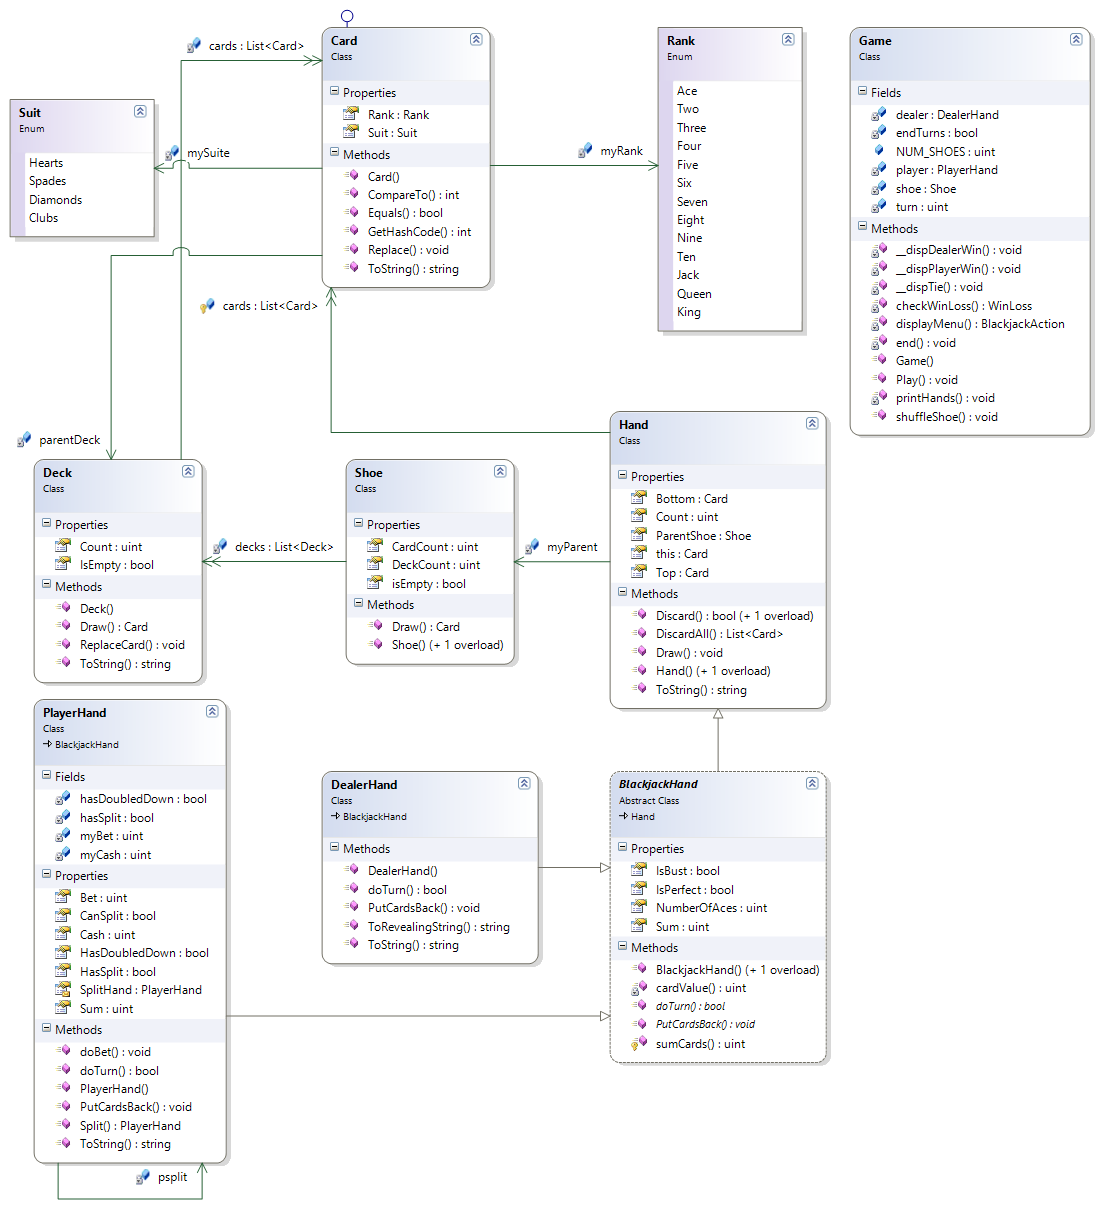
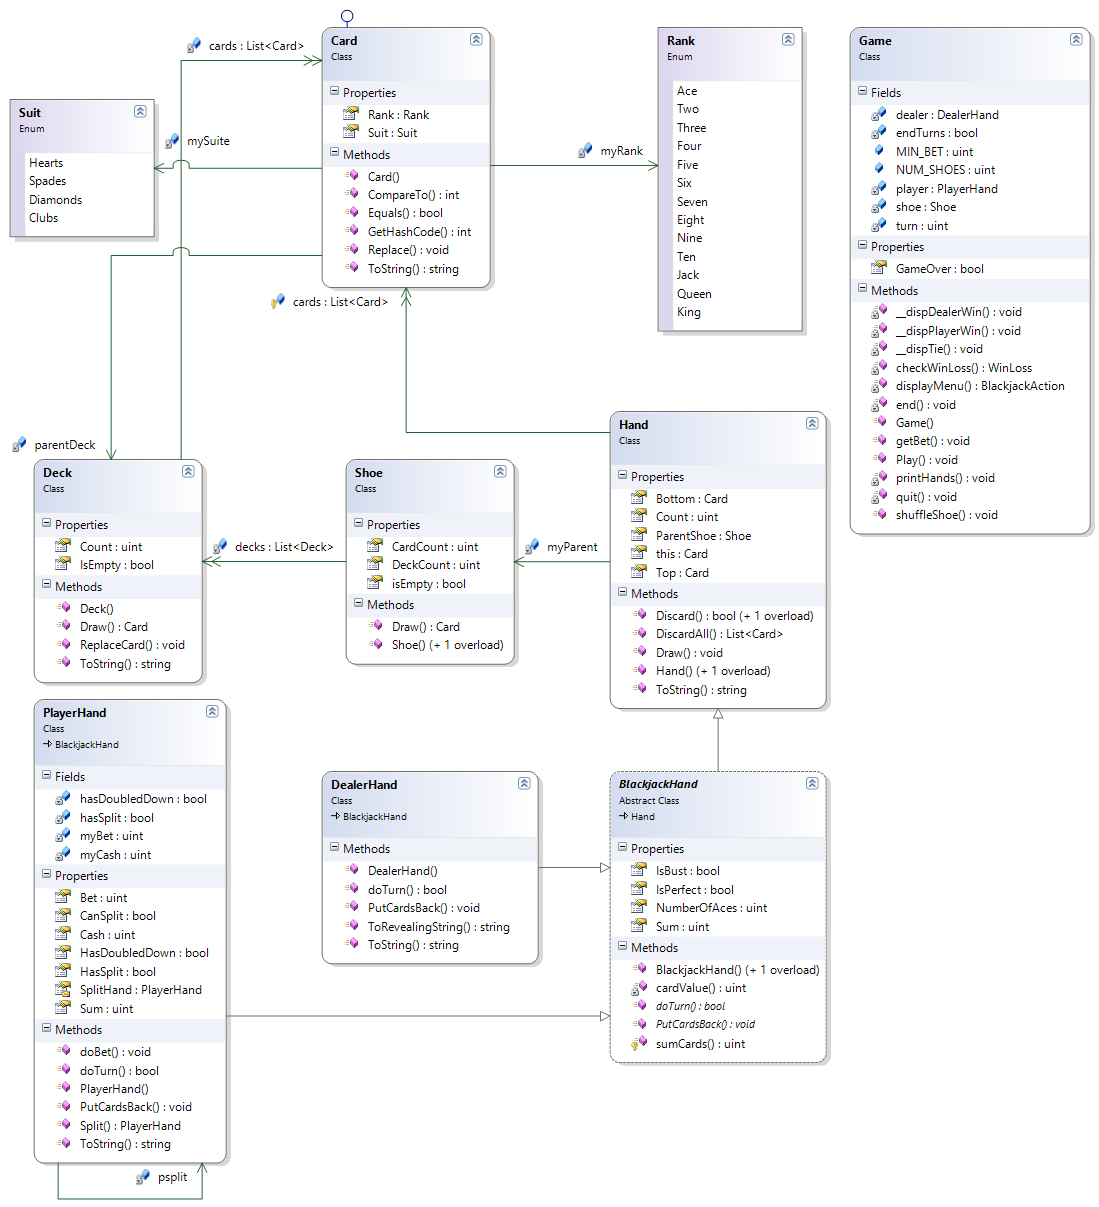
Really, sleep time.

diff --git a/proj/proj/Game.cs b/proj/proj/Game.cs
@@ -9,10 +9,17 @@ namespace test {
     /// </summary>
     class Game {
         public static uint NUM_SHOES = 1;
+        public static uint MIN_BET = 20;
 
         private Shoe shoe;
         PlayerHand player;
         DealerHand dealer;
+
+        public bool GameOver {
+            get {
+                return player.Cash < MIN_BET;
+            }
+        }
 
         uint turn;
 
@@ -20,6 +27,10 @@ namespace test {
 
         public Game() {
             shoe = new Shoe(NUM_SHOES);
+            player = new PlayerHand(shoe);
+            dealer = new DealerHand(shoe);
+            player.PutCardsBack();
+            dealer.PutCardsBack();
         }
 
         public void shuffleShoe() {
@@ -38,6 +49,7 @@ namespace test {
         }
 
         private void printHands() {
+            Console.WriteLine("\n Cash: {0,4:N0}  Bet: {1,3:N0}\n", player.Cash, player.Bet);
             if (endTurns) {
                 Console.WriteLine("  Dealer's Hand: {0}", dealer.ToRevealingString());
             } else {
@@ -47,12 +59,13 @@ namespace test {
         }
 
         public void Play() {
-            player = new PlayerHand(shoe);
-            dealer = new DealerHand(shoe);
-
             turn = 1;
             getBet();
-            printHands();
+
+            player.Draw(2);
+            dealer.Draw(2);
+
+            //printHands();
 
             // TODO: incorrect [from old source -- dunno what this means or why it's incorrect]
             BlackjackAction a;
@@ -62,7 +75,6 @@ namespace test {
                     case BlackjackAction.Stand:
                         while (dealer.doTurn()) ;
                         endTurns = true;
-                        printHands();
                         break;
                     case BlackjackAction.Split:
                         if (!player.CanSplit) {
@@ -77,7 +89,9 @@ namespace test {
                         player.doTurn(BlackjackAction.DoubleDown);
                         while (dealer.doTurn()) ;
                         endTurns = true;
-                        printHands();
+                        break;
+                    case BlackjackAction.EndGame:
+                        quit();
                         break;
                     default:
                         player.doTurn(a);
@@ -90,19 +104,26 @@ namespace test {
 
         private WinLoss checkWinLoss() {
             // TODO: verify accuracy?
-            if ((player.IsBust && dealer.IsBust) || (player.IsPerfect && dealer.IsPerfect)) {
+            WinLoss ret = WinLoss.NoWin;
+            if (player.IsBust && dealer.IsBust) {// TODO: this case || (player.IsPerfect && dealer.IsPerfect)) {
                 endTurns = true;
-                return WinLoss.Tie;
+                if (player.Sum < dealer.Sum) {
+                    ret = WinLoss.Player;
+                } else if (player.Sum > dealer.Sum)	{
+                    ret = WinLoss.Dealer;
+                } else {
+                    ret = WinLoss.Tie;
+                }
             }
             if (player.IsBust || dealer.IsPerfect) {
                 endTurns = true;
-                return WinLoss.Dealer;
+                ret = WinLoss.Dealer;
             }
             if (dealer.IsBust || player.IsPerfect) {
                 endTurns = true;
-                return WinLoss.Player;
+                ret = WinLoss.Player;
             }
-            return WinLoss.NoWin;
+            return ret;
         }
 
         private void __dispDealerWin() {
@@ -129,8 +150,10 @@ namespace test {
                     case WinLoss.NoWin: // TODO: There has to be a better way to do this
                         if (player.Sum > dealer.Sum) {
                             __dispPlayerWin();
+                            w = WinLoss.Player; // TODO: Fix the checkWinLoss method to account for this.
                         } else {
                             __dispDealerWin();
+                            w = WinLoss.Dealer;
                         }
                         break;
                     case WinLoss.Dealer:
@@ -157,7 +180,6 @@ namespace test {
 
         private BlackjackAction displayMenu() {
             Console.Clear();
-            Console.WriteLine();
             printHands();
             Console.WriteLine("\n\n     What would you like to do?\n");
             Console.WriteLine(" [1] Hit");
@@ -167,7 +189,7 @@ namespace test {
             Console.WriteLine(" [0] Quit Game");
             //TODO: Allow a doubling factor of 1.0 to 2.0 [what did I mean by this? - from old code]
 
-            ConsoleKeyInfo k = Console.ReadKey(true); //nextInt();
+            ConsoleKeyInfo k = Console.ReadKey(true);
             if (!Char.IsDigit(k.KeyChar)) {
                 Console.WriteLine("  Invalid option. Choose 0-4.");
                 return displayMenu();
@@ -195,7 +217,8 @@ namespace test {
         }
         public void getBet() {
             Console.Clear();
-            Console.WriteLine("\n How much would you like to bet on this game?");
+            Console.WriteLine("\n Cash: {0,4:N0}\n", player.Cash);
+            Console.Write("\n How much would you like to bet on this game? (0 to quit)\n ");
             string input = Console.ReadLine();
             uint bet;
             if (!UInt32.TryParse(input, out bet)) {
@@ -206,14 +229,22 @@ namespace test {
                 Console.WriteLine("\n Nice try. Bet only what you can pay up!! \n\n dirty stink...");
                 Console.ReadKey(true);
                 getBet();
-            } else if (bet < 20) {
-                Console.WriteLine("\n Stop wasting my time! \n\n poop head...");
+            } else if (bet == 0) {
+                quit();
+            } else if (bet < MIN_BET) {
+                Console.WriteLine("\n Stop wasting my time! Bet at least {0}. \n\n poop head...", MIN_BET);
                 Console.ReadKey(true);
                 getBet();
             } else {
                 player.Bet = bet;
                 player.Cash -= bet;
             }
+        }
+        private static void quit() {
+            Console.Clear();
+            Console.Write("\n Peace bro");
+            Console.ReadKey(true);
+            Environment.Exit(0);
         }
     }
 }

diff --git a/proj/proj/PlayerHand.cs b/proj/proj/PlayerHand.cs
@@ -87,10 +87,8 @@ namespace test {
         }
 
         public override bool doTurn(BlackjackAction c) {
-            //if (hasDoubledDown) // TODO: Is this functionality required anymore?
+            //if (hasDoubledDown) // TODO: Is this functionality required anymore? At any rate, it should be moved to Game. The menu should have to be displayed.
             //    c = BlackjackAction.DoubleDown;
-            //else
-            //    c = displayMenu();
 
             switch (c) {
                 case BlackjackAction.Hit:
@@ -116,10 +114,7 @@ namespace test {
                     }
                     break;
                 case BlackjackAction.EndGame:
-                    Console.Clear();
-                    Console.Write("\n Peace bro");
-                    Console.ReadKey(true);
-                    Environment.Exit(0);
+                    // also taken care of in Game - this is a high level action.
                     return true;
                 case BlackjackAction.None:
                     throw new InvalidOperationException("'None' is not an acceptable action for this class.");

diff --git a/proj/proj/Program.cs b/proj/proj/Program.cs
@@ -7,12 +7,19 @@ namespace test {
     class Program {
         static void Main(string[] args) {
             Game g = new Game();
-            while (true) {
+            while (!g.GameOver) {
                 g.Play();
                 Console.WriteLine("\n\n Game ended.");
                 Console.ReadKey(true);
                 Console.Clear();
             }
+            Console.WriteLine("\n You ran out of cash. You should feel bad.\n" +
+                              "\n Now you have to go back home to your wife" +
+                              "\n and explain why she can't buy groceries" +
+                              "\n for your family for TWO MONTHS because" +
+                              "\n you just HAD to go out gambling." +
+                              "\n\n Asshole.");
+            Console.ReadKey(true);
         }
     }
 }
